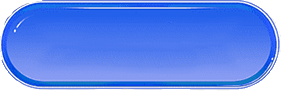
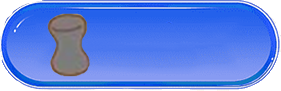
v0.6
-  3. MOSTRAR NO ECRA QUEM JOGA + PONTUACAO

- BOTAO RESTART ADICIONADO

Changed region(s): [[0.1708, 0.1319, 0.3416, 0.8571], [0.0854, 0.022, 0.1139, 0.044]]

diff --git a/display.py b/display.py
@@ -13,13 +13,15 @@ info = pygame.display.Info()
 width, height = info.current_w, info.current_h
 
 window = pygame.display.set_mode((width, height - 60), pygame.RESIZABLE)       # display da janela
-pygame.display.set_caption("Senet Game by Balente & Skimmer")   # titulo da janela
+pygame.display.set_caption("Senet: An Egyptian Board Game")   # titulo da janela
 
 # menu variables and states
 game_start = False
 game_pause = False
 game_bot = False
 menu_state = "main"
+can_point = False
+restart = False
 
 # game variables
 sticks = 0
@@ -62,9 +64,16 @@ input_img = pygame.image.load("img/input.png").convert_alpha()
 player1_img = pygame.image.load("img/Player_1.png").convert_alpha()
 player2_img = pygame.image.load("img/Player_2.png").convert_alpha()
 ok_img = pygame.image.load("img/OK.png").convert_alpha()
-save_img = pygame.image.load("img/button_save.png").convert_alpha()
+restart_img = pygame.image.load("img/button_restart.png").convert_alpha()
 quit_to_menu_img = pygame.image.load("img/button_quit_to_menu.png").convert_alpha()
-parchment_img = pygame.image.load("img/parchment.png").convert_alpha()
+red_img = pygame.image.load("img/red.png").convert_alpha()
+blue_img = pygame.image.load("img/blue.png").convert_alpha()
+point0 = pygame.image.load("img/point0.png").convert_alpha()
+point1 = pygame.image.load("img/point1.png").convert_alpha()
+point2 = pygame.image.load("img/point2.png").convert_alpha()
+point3 = pygame.image.load("img/point3.png").convert_alpha()
+point4 = pygame.image.load("img/point4.png").convert_alpha()
+point5 = pygame.image.load("img/point5.png").convert_alpha()
 
 # som
 mixer.music.load("audio/background.wav")
@@ -82,7 +91,7 @@ throw_button = button.Button(78, 371, roll_img, 1)
 back_name_button = button.Button(600, 725, back_img, 1)
 ok_button = button.Button(920, 725, ok_img, 1)
 resume_button = button.Button(819, 374, resume_img, 1)
-save_button = button.Button(819, 493, save_img, 1)
+restart_button = button.Button(819, 493, restart_img, 1)
 rules_pause_button = button.Button(819, 612, rules_img, 1)
 quit_to_menu_button = button.Button(819, 731, quit_to_menu_img, 1)
 quit_pause_button = button.Button(819, 850, quit_img, 1)
@@ -451,6 +460,27 @@ running = True
 while running:
     window.blit(background, (0, 0))
 
+    if restart:
+        white_pieces = ['cone', 'cone', 'cone', 'cone', 'cone']
+        white_location = [(0, 0), (2, 0), (4, 0), (6, 0), (8, 0)]
+        black_pieces = ['spool', 'spool', 'spool', 'spool', 'spool']
+        black_location = [(1, 0), (3, 0), (5, 0), (7, 0), (9, 0)]
+        piece_list = ['cone', 'spool']
+        sticks = 0
+        swap_w_white = 0
+        swap_w_black = 0
+        white_pontuation = 0
+        black_pontuation = 0
+        inputt = ' '
+        wrt = 1
+        turn_step = 0
+        selection = 100  # variavel para usar comoo flag de peça selecionada
+        valid_moves = []  # check ações válidas
+        menu_state = "start"
+        restart = False
+        game_pause = False
+        game_start = False
+
     if menu_state == "main":
         window.blit(title, (678, 123))
         window.blit(bybalente, (905, 330))
@@ -484,7 +514,6 @@ while running:
             if comes == "pause":
                 menu_state = "pause"
 
-
     if menu_state == "name":
         window.blit(title, (678, 123))
         window.blit(input_img, (537, 589))
@@ -512,6 +541,7 @@ while running:
                 if ok_button.draw(window):
                     if 3 <= len(inputt) <= 7:
                         player2_str = inputt
+                        inputt = ""
                         game_start = True
                         menu_state = "game"
                         wrt = 1
@@ -531,6 +561,7 @@ while running:
                 if 3 <= len(inputt) <= 7:
                     inputt = "BOT"
                     player2_name = arial.render(inputt, True, (0, 0, 0))
+                    inputt = ""
                     game_start = True
                     menu_state = "game"
                 else:
@@ -545,6 +576,10 @@ while running:
             player2_name = ""
             inputt = ""
 
+    # TODO: botão de guardar (que vai guardar estado atual do jogo num ficheiro)
+    # TODO: PRIMEIRO LIMPA FICHEIRO, DEPOIS SALVA DEPOIS VERIFICA SE ESTA VAZIO
+    # TODO: SE ESTIVER VAZIO DIZ ERRO SENAO DIZ SAVED
+    # nao esquecer o -- menu_state == "save" para depois fazer menu save com if
     if game_start:
         # verificar se o jogo está pausado
         if game_pause:
@@ -555,12 +590,8 @@ while running:
                 if resume_button.draw(window):
                     game_pause = False
                     menu_state = "game"
-                if save_button.draw(window):
-                    pass
-                    # TODO: botão de guardar (que vai guardar estado atual do jogo num ficheiro)
-                    # TODO: PRIMEIRO LIMPA FICHEIRO, DEPOIS SALVA DEPOIS VERIFICA SE ESTA VAZIO
-                    # TODO: SE ESTIVER VAZIO DIZ ERRO SENAO DIZ SAVED
-                    # nao esquecer o -- menu_state == "save" para depois fazer menu save com if
+                if restart_button.draw(window):
+                    restart = True
                 if rules_pause_button.draw(window):
                     menu_state = "rules"
                     comes = "pause"
@@ -600,10 +631,42 @@ while running:
             # TODO: IF TURN.... PRINT PLAYER NAME
             # window.blit(white_img, (485, 380))
             if turn_step <= 1:
-                window.blit(player1_name, (938, 792))
+                window.blit(red_img, (830, 743))
+                window.blit(player1_name, (943, 766))
+                # PONTUACAO:
+                if white_pontuation == 0:
+                    window.blit(point0, (891, 780))
+                if white_pontuation == 1:
+                    window.blit(point1, (891, 780))
+                if white_pontuation == 2:
+                    window.blit(point2, (891, 780))
+                if white_pontuation == 3:
+                    window.blit(point3, (891, 780))
+                if white_pontuation == 4:
+                    window.blit(point4, (891, 780))
+                if white_pontuation == 5:
+                    window.blit(point5, (891, 780))
+                    game_start = False
+                    game_win = "white"
 
             if turn_step >= 2:
-                window.blit(player2_name, (938, 792))
+                window.blit(blue_img, (830, 743))
+                window.blit(player2_name, (943, 766))
+                # PONTUACAO:
+                if black_pontuation == 0:
+                    window.blit(point0, (891, 780))
+                if black_pontuation == 1:
+                    window.blit(point1, (891, 780))
+                if black_pontuation == 2:
+                    window.blit(point2, (891, 780))
+                if black_pontuation == 3:
+                    window.blit(point3, (891, 780))
+                if black_pontuation == 4:
+                    window.blit(point4, (891, 780))
+                if black_pontuation == 5:
+                    window.blit(point5, (891, 780))
+                    game_start = False
+                    game_win = "white"
 
             draw_pieces()
 
@@ -640,11 +703,12 @@ while running:
                         turn_step = 1
                 if click_coords in valid_moves and selection != 100:
                     white_location[selection] = click_coords
+                    # SE TROCAR COM OUTRA
                     if click_coords in black_location:
                         black_piece = black_location.index(click_coords)
                         black_location[black_piece] = swap_w_white
+                    # CASAS ESPECIAIS
                     else:
-                        # CASAS ESPECIAIS
                         # CASA DA BELEZA
                         if white_location[selection] == (5, 2) and sticks == 5:
                             white_piece = white_location.index(click_coords)
@@ -682,6 +746,7 @@ while running:
 
                     black_options = check_options(sticks, black_pieces, black_location, 'spool')
                     white_options = check_options(sticks, white_pieces, white_location, 'cone')
+                    # TODO: BOT CLICK TO CONTINUE
                     turn_step = 2
                     selection = 100
                     sticks = 0
@@ -739,6 +804,7 @@ while running:
 
                     black_options = check_options(sticks, black_pieces, black_location, 'spool')
                     white_options = check_options(sticks, white_pieces, white_location, 'cone')
+                    # TODO: BOT CLICK TO CONTINUE
                     turn_step = 0
                     selection = 100
                     sticks = 0
